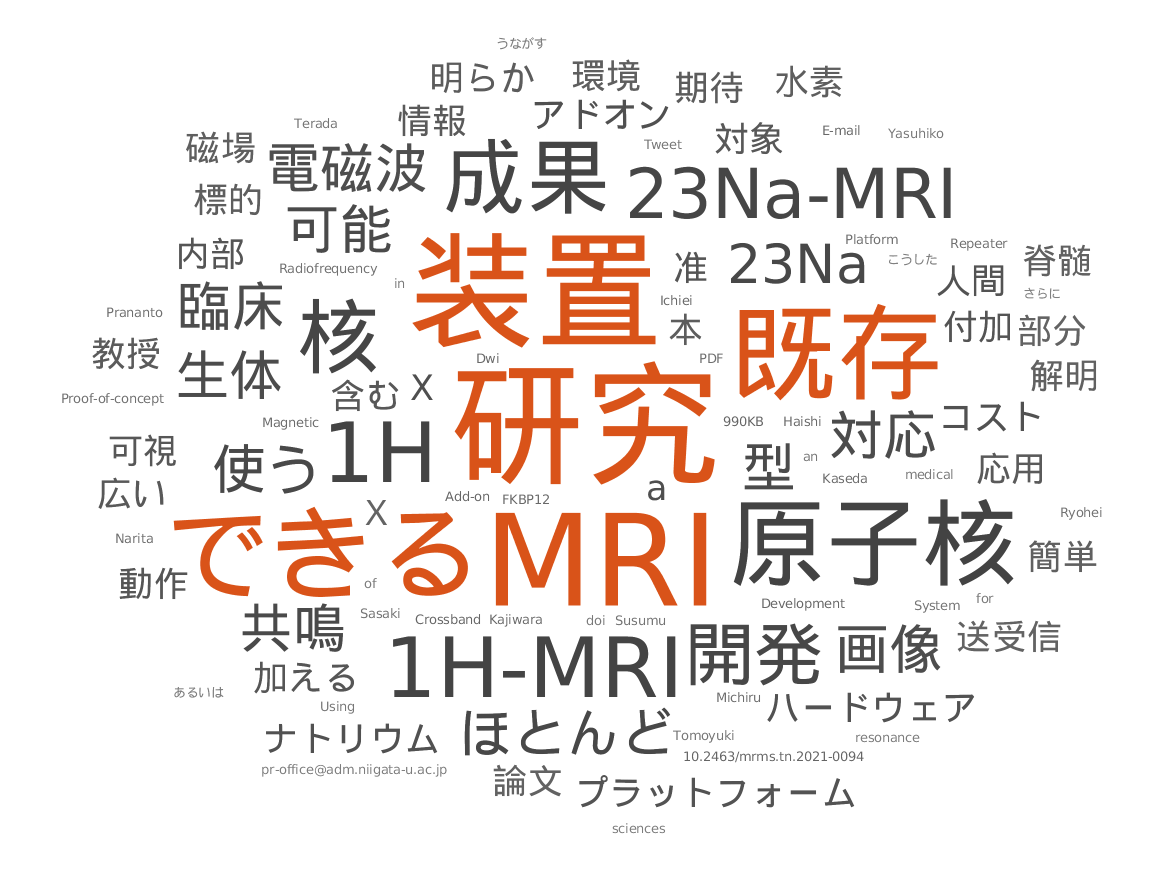
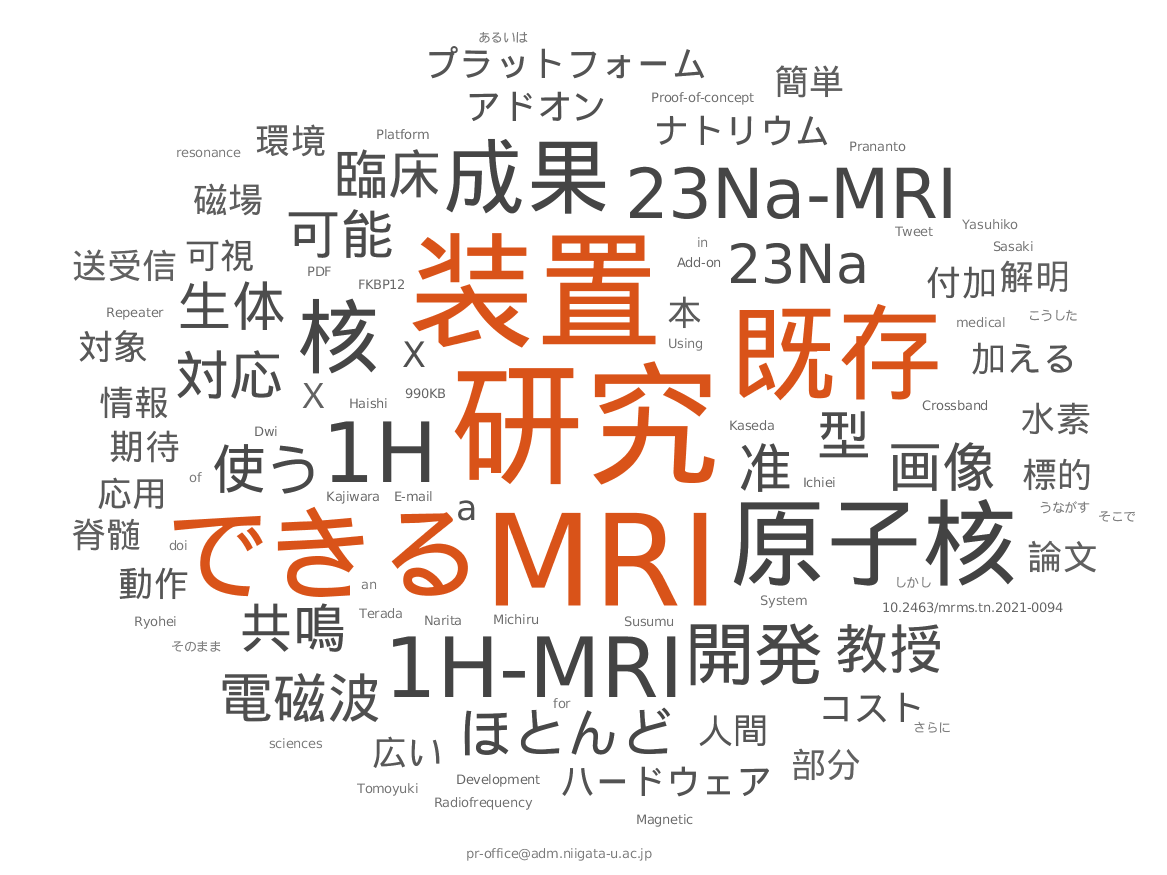
CI autogen [ci skip]

diff --git a/docs/_posts/2021-12-13-医学部保健学科4年の高橋七瀬さんが大学女性協会新潟支部「第72回支部奨学賞」を受賞しました.md b/docs/_posts/2021-12-13-医学部保健学科4年の高橋七瀬さんが大学女性協会新潟支部「第72回支部奨学賞」を受賞しました.md
@@ -1,0 +1,7 @@
+---
+layout: post
+title: 医学部保健学科4年の高橋七瀬さんが大学女性協会新潟支部「第72回支部奨学賞」を受賞しました
+---
+Autogenerated Word Cloud.
+Source\: [https://www.niigata-u.ac.jp/campus/shindaisei/2021/98129/](https://www.niigata-u.ac.jp/campus/shindaisei/2021/98129/)
+![WordCloud]({{ site.baseurl }}/assets/6dbf059b4f9f19a34b7e4eeb98ba6524.png)

diff --git a/docs/_posts/2021-12-13-佐渡自然共生科学センターの大森紹仁助教がフジテレビ「世界の何だコレ!?ミステリー」に出演します.md b/docs/_posts/2021-12-13-佐渡自然共生科学センターの大森紹仁助教がフジテレビ「世界の何だコレ!?ミステリー」に出演します.md
@@ -1,0 +1,7 @@
+---
+layout: post
+title: 佐渡自然共生科学センターの大森紹仁助教がフジテレビ「世界の何だコレ!?ミステリー」に出演します
+---
+Autogenerated Word Cloud.
+Source\: [https://www.niigata-u.ac.jp/news/2021/98123/](https://www.niigata-u.ac.jp/news/2021/98123/)
+![WordCloud]({{ site.baseurl }}/assets/edc64e8d953054283acca087f1c03fdf.png)

diff --git a/docs/_posts/2021-12-13-人文学部の新美亮輔准教授が第13回錯視・錯聴コンテストでグランプリを受賞しました.md b/docs/_posts/2021-12-13-人文学部の新美亮輔准教授が第13回錯視・錯聴コンテストでグランプリを受賞しました.md
@@ -1,0 +1,7 @@
+---
+layout: post
+title: 人文学部の新美亮輔准教授が第13回錯視・錯聴コンテストでグランプリを受賞しました
+---
+Autogenerated Word Cloud.
+Source\: [https://www.niigata-u.ac.jp/news/2021/98192/](https://www.niigata-u.ac.jp/news/2021/98192/)
+![WordCloud]({{ site.baseurl }}/assets/c14f0d5eb685d57a4d7f87a386f4748b.png)

diff --git a/docs/_posts/2021-12-13-【学生の皆さんへ】令和3年度後期分授業料免除・徴収猶予の選考結果について.md b/docs/_posts/2021-12-13-【学生の皆さんへ】令和3年度後期分授業料免除・徴収猶予の選考結果について.md
@@ -1,0 +1,7 @@
+---
+layout: post
+title: 【学生の皆さんへ】令和3年度後期分授業料免除・徴収猶予の選考結果について
+---
+Autogenerated Word Cloud.
+Source\: [https://www.niigata-u.ac.jp/news/2021/98204/](https://www.niigata-u.ac.jp/news/2021/98204/)
+![WordCloud]({{ site.baseurl }}/assets/ee425006595024324c592ef908393bf5.png)

diff --git a/docs/_posts/2021-12-13-「コシヒカリ新潟大学NU1号」を附属学校園の学校給食で提供しました.md b/docs/_posts/2021-12-13-「コシヒカリ新潟大学NU1号」を附属学校園の学校給食で提供しました.md
@@ -1,0 +1,7 @@
+---
+layout: post
+title: 「コシヒカリ新潟大学NU1号」を附属学校園の学校給食で提供しました
+---
+Autogenerated Word Cloud.
+Source\: [https://www.niigata-u.ac.jp/news/2021/98167/](https://www.niigata-u.ac.jp/news/2021/98167/)
+![WordCloud]({{ site.baseurl }}/assets/3406e263ae30fcb447537f579f8632c.png)
